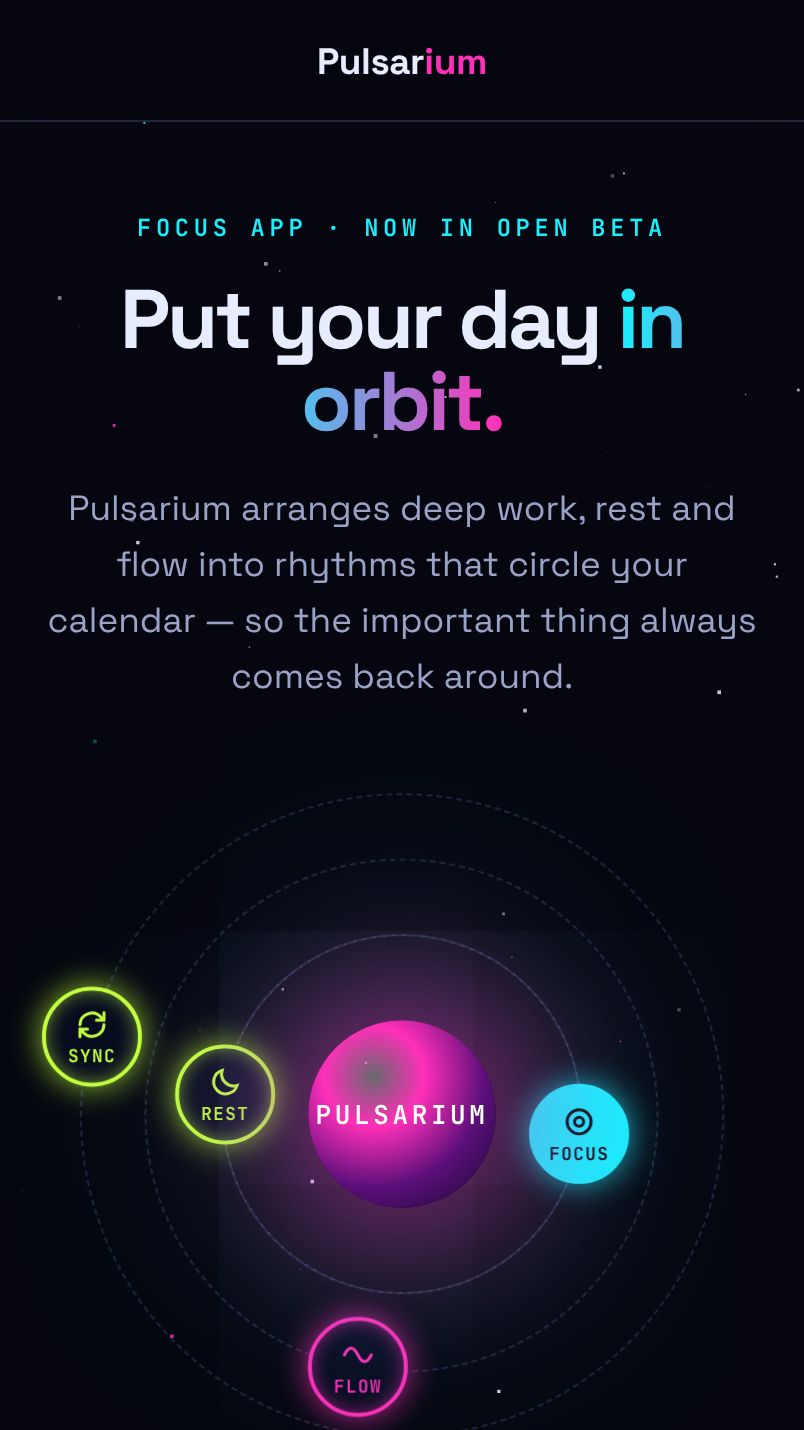
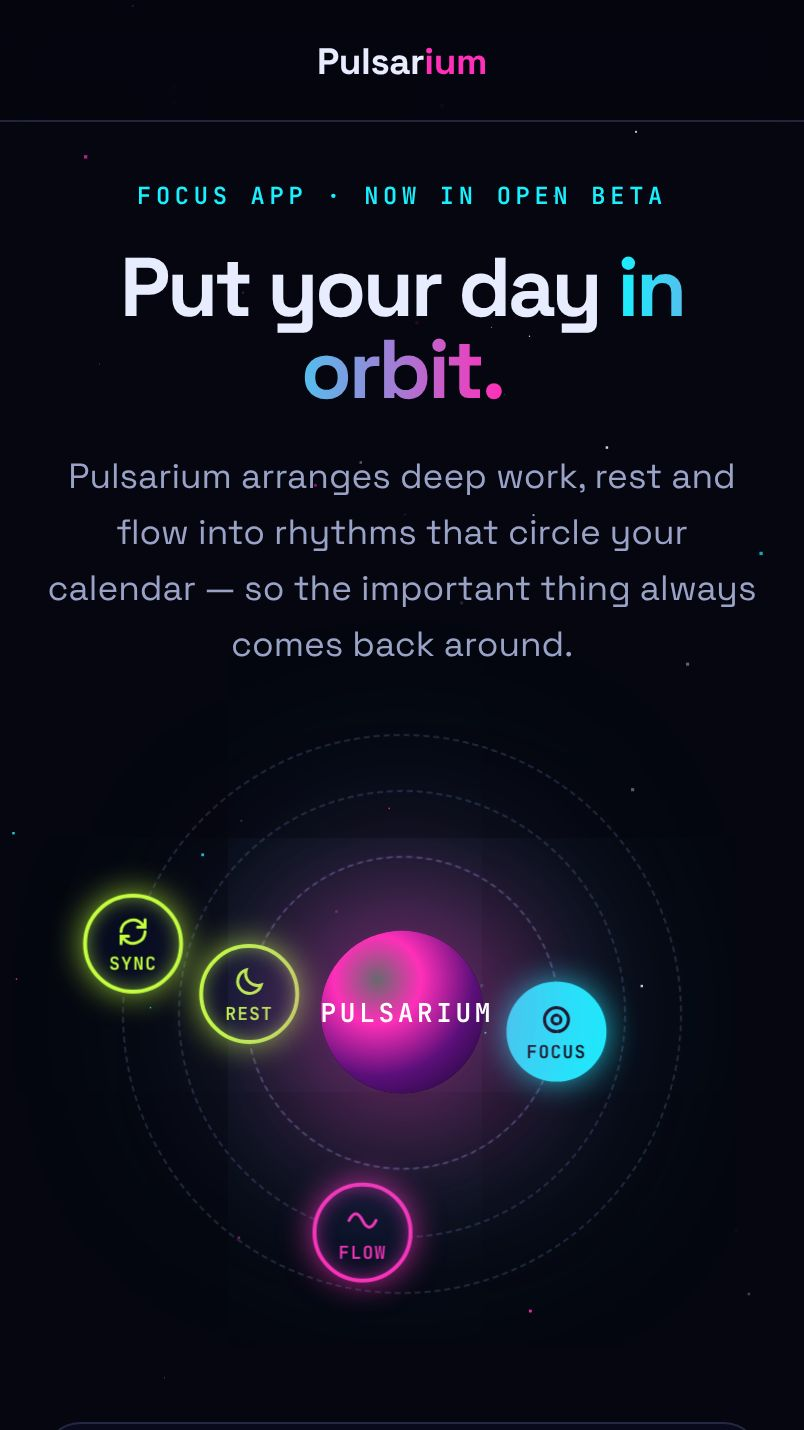
fix: retrofit Ledgerleaf and Pulsarium for the 402x715 reel frame (all pauses clean) and refresh their covers
Claude-Session: https://claude.ai/code/session_01SjSLnGNT2C2ge5YG5LcD4K

diff --git a/templates/2026-10-06-1839/index.html b/templates/2026-10-06-1839/index.html
@@ -51,6 +51,7 @@
 
   /* signature: orbital system */
   .system{position:relative;width:min(80vw,600px);aspect-ratio:1;margin:44px auto 20px}
+  @media(max-width:560px){.hero{padding-top:32px;padding-bottom:28px}.system{width:min(72vw,280px);margin:30px auto 64px}} /* reel frame: the whole orbit fits the first screen */
   .core{position:absolute;inset:36%;border-radius:50%;display:grid;place-items:center;text-align:center;
     background:radial-gradient(circle at 35% 30%,#fff6 0,var(--pink) 28%,#5b0f7a 62%,#14072b 100%);
     box-shadow:0 0 60px 8px rgba(255,47,185,.55),0 0 140px 30px rgba(25,240,255,.18);animation:pulse 4s ease-in-out infinite}
@@ -121,6 +122,13 @@
     html{scroll-behavior:auto}
     *,*::before,*::after{animation:none!important;transition:none!important}
     .reveal{opacity:1;transform:none}
+  }
+  @media(max-width:799px){ /* reel frame: compact plan cards so the heading and all three fit one frame */
+    section{padding:56px 0}#proof{padding:32px 0}.plans{margin-top:18px;gap:10px}
+    .plan{display:grid;grid-template-columns:1fr auto;gap:2px 12px;padding:12px 18px;align-items:center}
+    .plan h3{grid-column:1}.plan .p{grid-column:1;font-size:1.8rem}
+    .plan ul{grid-column:1/-1;display:flex;flex-wrap:wrap;gap:2px 14px;font-size:.88rem}.plan li{border:0;padding:0}
+    .plan .btn{grid-column:2;grid-row:1/3;padding:10px 16px;min-height:44px;font-size:.9rem}
   }
 </style>
 </head>

diff --git a/templates/2026-10-06/index.html b/templates/2026-10-06/index.html
@@ -69,6 +69,7 @@
   .btn.ghost:hover{background:var(--paper2)}
   /* ink-stamp seal */
   .seal{width:min(320px,70vw);justify-self:center;color:var(--red);transform:rotate(-8deg)}
+  @media(max-width:899px){.seal{margin-top:40px;width:min(250px,64vw)}.hero{padding-bottom:28px}section{padding:60px 0}.head{margin-bottom:32px}} /* reel frame: the first screen ends after the buttons; the seal opens the next one */
   .seal svg{width:100%;height:auto;display:block}
   .seal .ring{transform-origin:150px 150px;animation:spin 40s linear infinite}
   @keyframes spin{to{transform:rotate(360deg)}}
@@ -120,6 +121,7 @@
   @media(min-width:800px){.specimen{grid-template-columns:2fr 1fr 1fr}}
   .tile{border:1.5px solid var(--ink);padding:28px;min-height:240px;display:flex;flex-direction:column;justify-content:space-between;position:relative;overflow:hidden}
   .tile .big{font:600 clamp(5rem,14vw,9rem)/.8 var(--serif);letter-spacing:-.05em}
+  @media(max-width:799px){.tile{min-height:170px;padding:20px 24px}.tile .big{font-size:4.6rem}}
   .tile.red{background:var(--red);color:#fff7ea;border-color:var(--red)}
   .tile.olive{background:var(--olive);color:#f6f1de;border-color:var(--olive)}
   .tile.ochre{background:var(--ochre);color:#1c1a17;border-color:var(--ochre)}
